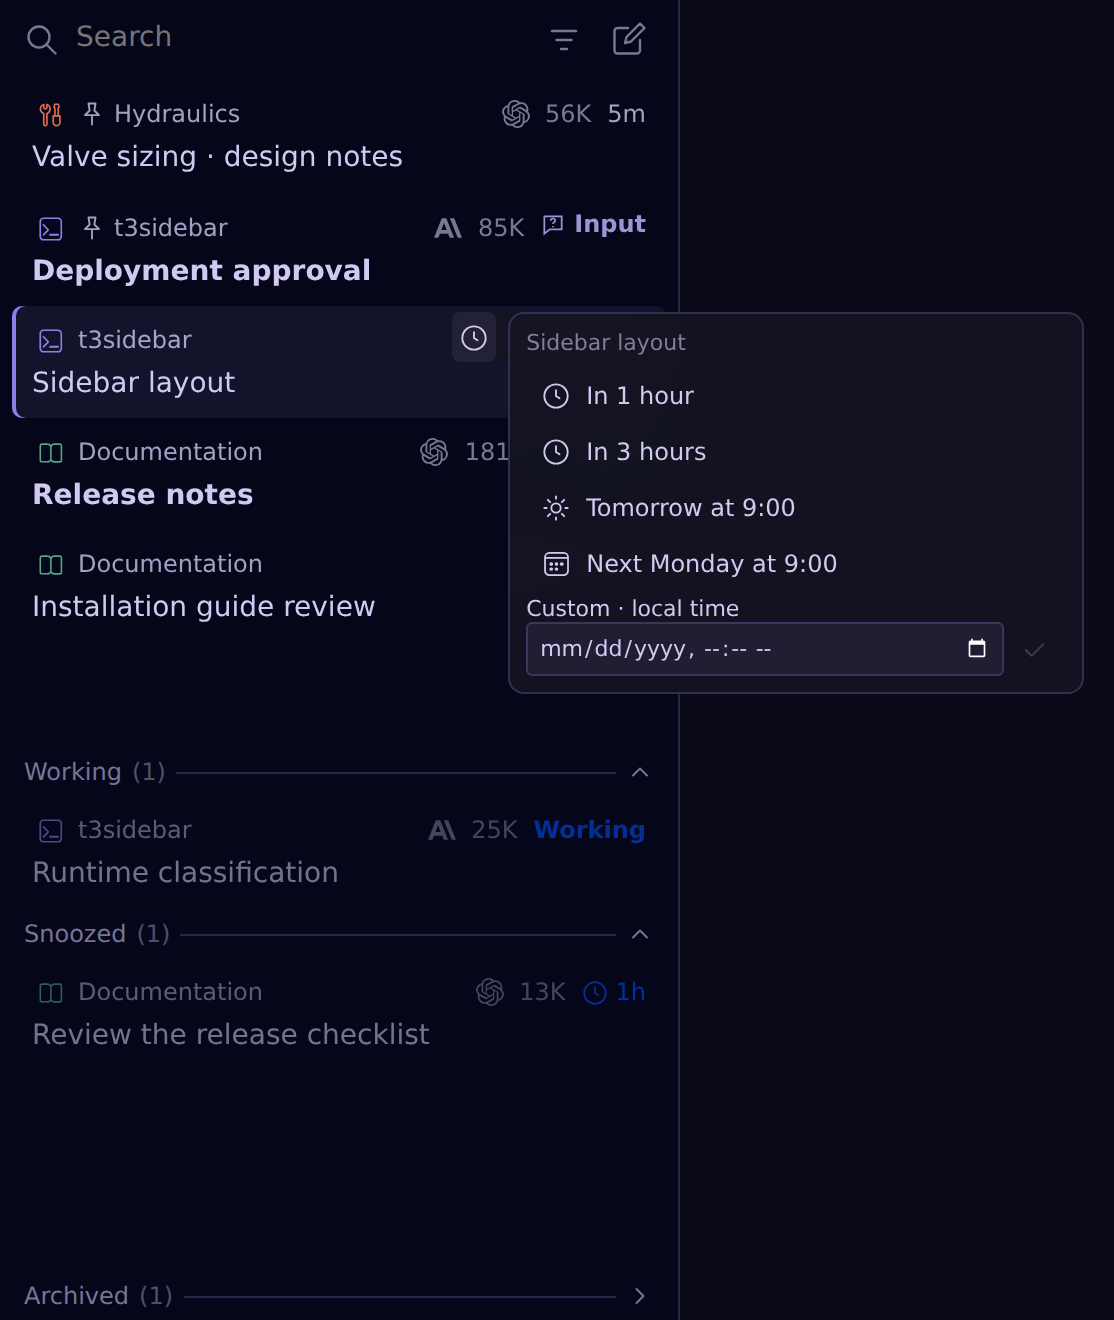
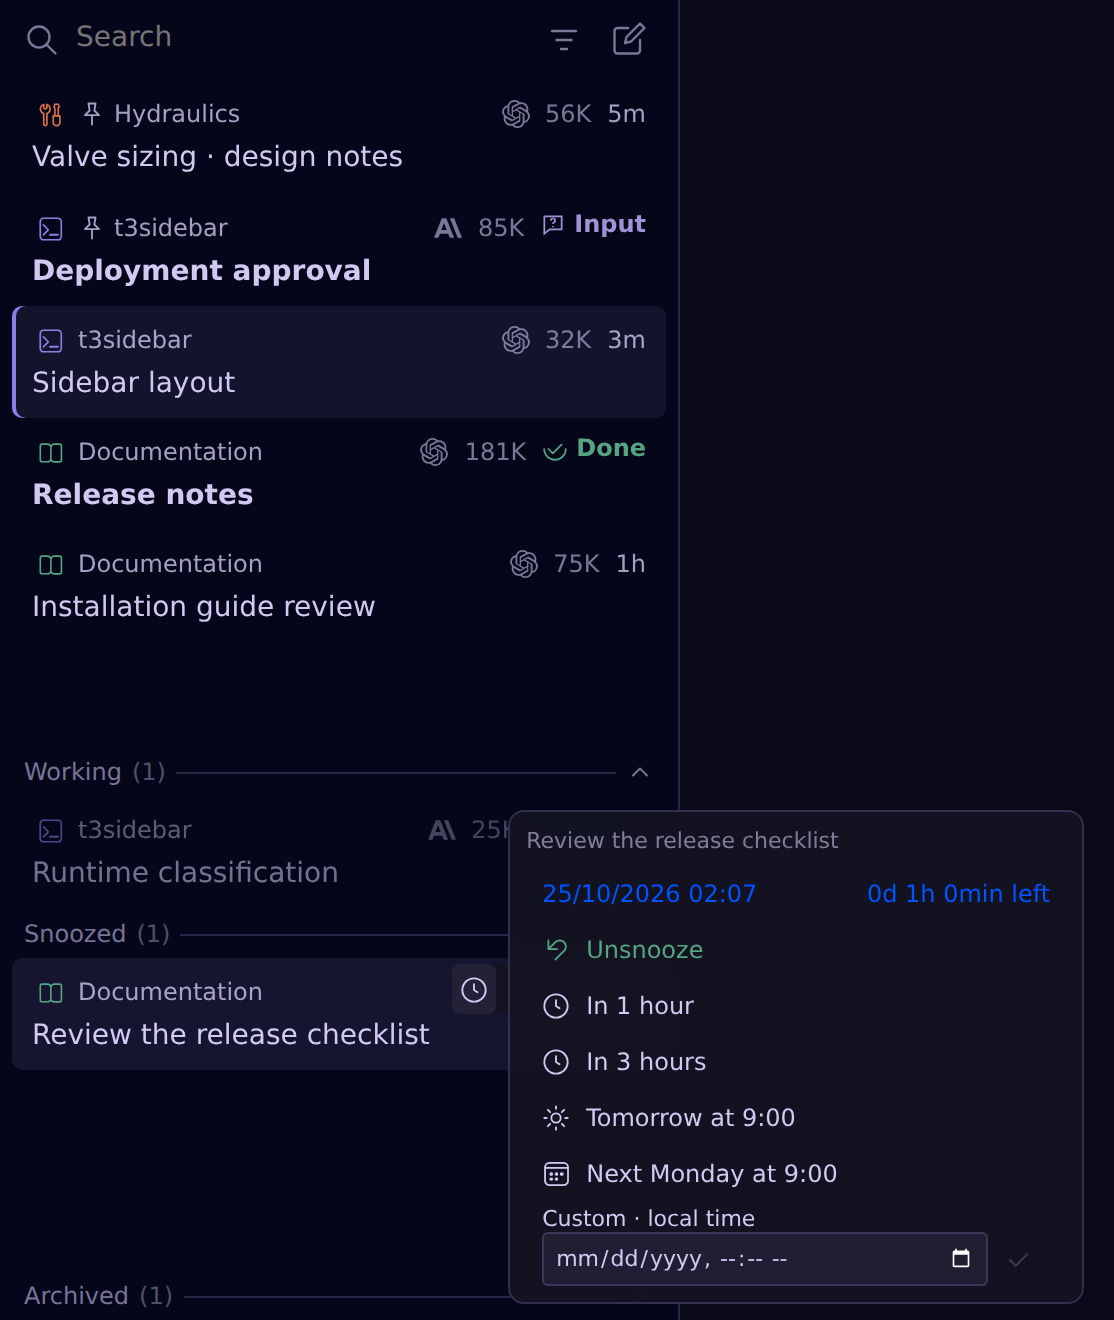
fix: simplify snoozed session menus and align timing details

diff --git a/desktop/plugin.js b/desktop/plugin.js
@@ -14,7 +14,8 @@ const ARCHIVE_TAIL_STALE_MS = 30000;
 const HISTORY_PAGE_GC_MS = 300000;
 const tokenFormatter = Intl.NumberFormat('en', { useGrouping: false, maximumFractionDigits: 0 });
 const millionTokenFormatter = Intl.NumberFormat('en', { useGrouping: false, minimumFractionDigits: 1, maximumFractionDigits: 1 });
-const shortDateTime = new Intl.DateTimeFormat(undefined, { dateStyle: 'short', timeStyle: 'short' });
+const shortDate = new Intl.DateTimeFormat(undefined, { dateStyle: 'short' });
+const shortTime = new Intl.DateTimeFormat(undefined, { timeStyle: 'short' });
 const SNOOZE_TIME_KEY = ['hermes-t3sidebar-preferences', 'snooze-time'];
 const validSnoozeTime = value => typeof value === 'string' && /^(?:[01]\d|2[0-3]):[0-5]\d$/.test(value);
 function readSnoozeTime(ctx) {
@@ -751,7 +752,7 @@ const CSS = `
 .sf-group{padding:6px 12px 2px;font-size:10px;color:var(--ui-text-quaternary)}
 .sf-menu{display:flex;flex-direction:column;gap:4px;padding:8px;min-width:200px;max-width:290px;color:var(--ui-text-primary)}.sf-menu button{justify-content:flex-start}.sf-menu-title{font-size:11px;color:var(--ui-text-tertiary);margin-bottom:4px;overflow:hidden;text-overflow:ellipsis;white-space:nowrap}.sf-menu label{font-size:11px}.sf-menu input{width:100%;background:var(--ui-bg-quaternary);color:var(--ui-text-primary);border:1px solid var(--ui-stroke-secondary);padding:5px}.sf-menu p{font-size:10px;color:var(--ui-text-tertiary);margin:4px 0}.sf-error{color:var(--ui-accent)}
 .sf-row .sf-project{gap:4px}.sf-row .sf-snooze-time{display:inline-flex;align-items:center;gap:4px;color:var(--ui-blue,#0053fd);font-weight:400}.sf-snooze-time svg{width:13px;height:13px;flex-shrink:0}.sf-menu button.sf-unsnooze{color:var(--ui-green,#1f8a65)}
-.sf-menu button.sf-snooze-info:disabled{color:var(--ui-blue,#0053fd);opacity:1;font-weight:400;cursor:default}
+.sf-menu button.sf-snooze-info:disabled{display:flex;gap:12px;width:100%;white-space:nowrap;color:var(--ui-blue,#0053fd);opacity:1;font-weight:400;cursor:default}.sf-snooze-remaining{margin-left:auto;text-align:right}.sf-menu .sf-custom-snooze{padding:0 8px}.sf-menu .sf-custom-snooze,.sf-menu .sf-snooze-info,.sf-menu .sf-snooze-action{padding-left:8px;padding-right:8px}
 .sf-project-choice{display:flex;align-items:center;gap:7px;min-width:0}.sf-project-choice[aria-expanded=true]{background:var(--chrome-action-hover,var(--ui-bg-quaternary));color:var(--ui-text-primary)}
 .sf-project-picker{box-sizing:border-box;width:min(440px,calc(100vw - 18px));min-width:0;max-width:none;max-height:min(720px,calc(100dvh - 24px),calc(var(--radix-popover-content-available-height,100dvh) - 2px));overflow:hidden}.sf-project-picker>strong,.sf-project-picker>input{flex-shrink:0}.sf-project-picker>input{box-sizing:border-box;min-width:0}.sf-menu.sf-project-picker>.sf-project-options{gap:0;overflow-y:auto;overscroll-behavior:contain;min-height:0}.sf-project-picker .sf-project-choice{box-sizing:border-box;flex-shrink:0;width:100%;height:24px;min-height:24px;padding:4px 8px;font-size:12px;line-height:16px;gap:8px;border:0}.sf-project-picker .sf-project-icon{width:14px;height:14px}.sf-project-details{display:flex;align-items:center;gap:12px;flex:1;min-width:0;text-align:left}.sf-project-details>.sf-project-name,.sf-project-path{display:block;overflow:hidden;text-overflow:ellipsis;white-space:nowrap;min-width:0}.sf-project-details>.sf-project-name{max-width:55%}.sf-project-path{flex:1;margin-left:auto;text-align:right;font-size:11px;font-weight:400;line-height:16px;color:var(--ui-text-tertiary)}
 .sf-project-group{display:flex;flex-direction:column;gap:0;flex-shrink:0}.sf-project-picker .sf-project-folder{padding-left:30px}.sf-project-folder .sf-project-path{text-align:left;margin-left:0}.sf-project-heading .sf-project-name{max-width:100%}.sf-project-heading[aria-disabled=true]{opacity:1;cursor:default}
@@ -964,16 +965,16 @@ function RowActions({ row, scope, controller, filterProject, deleteSession, muta
   };
   return h('div', { className: 'sf-menu' }, h('div', { className: 'sf-menu-title' }, sessionTitle(row)),
     snoozeOnly ? h('form', { onSubmit: custom },
-      row.meta.state === 'snoozed' ? h(sdk.Button, { type: 'button', variant: 'ghost', size: 'sm', className: 'sf-snooze-info', disabled: true }, snoozeDetail) : null,
-      row.meta.state === 'snoozed' ? h(sdk.Button, { type: 'button', variant: 'ghost', size: 'sm', className: 'sf-snooze-info', disabled: true }, shortDateTime.format(new Date(row.meta.wake_at * 1000))) : null,
-      row.meta.state === 'snoozed' ? h(MenuAction, { codicon: 'discard', className: 'sf-unsnooze', disabled: disabled || snoozeDisabled, onClick: () => run({ action: 'restore' }) }, 'Unsnooze') : null,
-      ...snoozePresets(Date.now(), presetTime).map(preset => h(MenuAction, { key: preset.label, name: preset.icon, codicon: preset.codicon, disabled: disabled || snoozeDisabled, onClick: () => run({ action: 'snooze', wake_at: preset.wake_at }) }, preset.label)),
-      h('label', null, 'Custom · local time', h('span', { className: 'sf-custom-time' },
+      row.meta.state === 'snoozed' ? h(sdk.Button, { type: 'button', variant: 'ghost', size: 'sm', className: 'sf-snooze-info', disabled: true },
+        h('span', { className: 'sf-snooze-date' }, `${shortDate.format(new Date(row.meta.wake_at * 1000))} ${shortTime.format(new Date(row.meta.wake_at * 1000))}`),
+        h('span', { className: 'sf-snooze-remaining' }, snoozeDetail)) : null,
+      row.meta.state === 'snoozed' ? h(MenuAction, { codicon: 'discard', className: 'sf-unsnooze sf-snooze-action', disabled: disabled || snoozeDisabled, onClick: () => run({ action: 'restore' }) }, 'Unsnooze') : null,
+      ...snoozePresets(Date.now(), presetTime).map(preset => h(MenuAction, { key: preset.label, name: preset.icon, codicon: preset.codicon, className: 'sf-snooze-action', disabled: disabled || snoozeDisabled, onClick: () => run({ action: 'snooze', wake_at: preset.wake_at }) }, preset.label)),
+      h('label', { className: 'sf-custom-snooze' }, 'Custom · local time', h('span', { className: 'sf-custom-time' },
         h('input', { type: 'datetime-local', value, disabled: disabled || snoozeDisabled, 'aria-label': 'Custom snooze date and time', onChange: event => { setValue(event.target.value); setError(''); } }),
         h(IconButton, { type: 'submit', label: 'Apply custom snooze', name: 'Check', glyph: '✓', disabled: disabled || snoozeDisabled || !value }))))
       : h('div', null,
         row.archived !== true ? action(row.meta.pinned ? 'Unpin' : 'Pin', 'Pin', { action: row.meta.pinned ? 'unpin' : 'pin' }) : null,
-        row.archived !== true && row.meta.state === 'snoozed' ? action('Restore to Ready', 'CornerDownLeft', { action: 'restore' }) : null,
         h(MenuAction, { name: 'Pencil', disabled: busy || !row.runtimeId, onClick: () => setRenaming(true) }, 'Rename'),
         !row.runtimeId ? h('p', null, 'Rename requires a live runtime. Open the thread and retry.') : null,
         renaming ? h('form', { onSubmit: event => { event.preventDefault(); void perform(() => controller.rename(scope, row, title)); } },

diff --git a/docs/behavior.md b/docs/behavior.md
@@ -11,7 +11,7 @@
 - Headerless Pinned cards above Ready, two-line session cards, search, project filtering and hover-only Snooze/Archive actions. Pinned sessions stay here while working, retaining blue Working status without dimming; Snoozed still wins over Pinned, while native archives and input/unknown-status safeguards keep their existing precedence. Pinned fits its cards without reserving blank space; large pinned lists remain height-capped and scroll independently. Category bodies scroll independently while secondary headers remain visible.
 - Working, Snoozed and Archived headings show a parenthesized session count, a divider and a right-aligned chevron. Fold preferences persist locally through Desktop restarts, separately for each source and profile. Searching temporarily reveals matching Working rows, but never automatically unfolds Snoozed or Archived; their matching counts remain available for explicit expansion.
 - Project glyphs have transparent backgrounds in both cards and the new-session picker. The picker closes through the normal popover dismissal without a Cancel button. Searches with no loaded matches show “No matching sessions”, never “All caught up”.
-- Reverse actions through ordinary controls: Archive/Unarchive, Pin/Unpin and Restore to Ready. No action creates an Undo toast or button; Delete retains its confirmation modal.
+- Reverse actions through ordinary controls: Archive/Unarchive, Pin/Unpin and Unsnooze in the Snooze menu. No action creates an Undo toast or button; Delete retains its confirmation modal.
 - Menu buttons stay highlighted until their popover closes. Snooze also keeps its hover controls visible and its anchor stable when the pointer leaves the card.
 - Provider icons appear only when concrete metadata identifies a supported logo. Missing, automatic or unrecognized providers have no placeholder icon or empty spacer; the logo appears when metadata arrives.
 - Search retains keyboard focus as filtering removes cards. Row-focus recovery only applies while the card actually owns focus; background list updates do not reclaim focus from search, menus or the composer.
@@ -19,8 +19,8 @@
 - Cards show green **Done** for a backend-recorded successful completion, or native backend unread when available. Completion markers persist in profile-scoped plugin SQLite even with Desktop closed; clients read the same state and acknowledge its exact generation when a thread is opened/read. No client-local completion tracker or native unread rewrite is used. See [backend completion markers](completion-markers.md).
 - Orange **Woke** after snooze expiry and purple **Input** for a question or approval retain priority over Done; Working remains blue and also outranks Done. Status labels have a leading icon and bold title. Project names, glyphs and ordinary ages have stronger contrast while provider/token metadata stays subdued.
 - Expanded Archives receives a larger share of list height. Categories animate open/closed without moving their headers into the scroll bodies; reduced-motion preferences disable these transitions.
-- Right-click offers Pin/Unpin, Restore when snoozed, Rename, Copy session ID, confirmed Delete, and a final **Project** submenu. Project contains Rename, Copy path, Filter for, the approved 48-color palette (24 hue-aligned bright/dark pairs in golden-ratio portrait swatches) and 64 native Codicons in eight categories. All selectable project glyphs use the chosen project color; action icons keep their ordinary styling. Right-click a project in the filter list (or use Shift+F10) to open the same menu without selecting that filter or changing workspace. Project edits update the native backend catalog and verify exact saved values; auto-discovered folders are adopted as native projects on their first edit, without changing the active workspace. Every action has a decorative leading icon; Delete's icon and text use the native red theme color, including hover/focus and disabled states. Session Rename is available only for a confirmed live runtime and verifies the saved title; stored-only threads explain the limitation. Archive and Snooze stay on their direct hover controls, and archived cards omit Snooze. Lists are always flat; project filtering does not group them.
-- Custom snooze uses the date/time field with Enter or its adjacent checkmark; there is no bottom “Snooze until chosen time” button.
+- Right-click offers Pin/Unpin, Rename, Copy session ID, confirmed Delete, and a final **Project** submenu. Project contains Rename, Copy path, Filter for, the approved 48-color palette (24 hue-aligned bright/dark pairs in golden-ratio portrait swatches) and 64 native Codicons in eight categories. All selectable project glyphs use the chosen project color; action icons keep their ordinary styling. Right-click a project in the filter list (or use Shift+F10) to open the same menu without selecting that filter or changing workspace. Project edits update the native backend catalog and verify exact saved values; auto-discovered folders are adopted as native projects on their first edit, without changing the active workspace. Every action has a decorative leading icon; Delete's icon and text use the native red theme color, including hover/focus and disabled states. Session Rename is available only for a confirmed live runtime and verifies the saved title; stored-only threads explain the limitation. Archive and Snooze stay on their direct hover controls, and archived cards omit Snooze. Lists are always flat; project filtering does not group them.
+- Custom snooze uses the date/time field with Enter or its adjacent checkmark; there is no bottom “Snooze until chosen time” button. The custom local-time label and input share the action icons' left edge.
 - Opening a thread marks it read but does not change its displayed conversation age or recency order. Stored conversation activity, not the runtime's resume/reattach clock, drives those values.
 - Token totals have whole-thousand resolution (`12K`, not `12.3K`) and one decimal for millions (`1.2M`). Archived cards never show Done, Woke, pin or snooze indicators/actions. Viewing their history leaves them archived; resumed agent activity restores their native compression lineage through the backend plugin hook. Authoritative running/input state leaves the Archived shelf immediately, even before the persisted flag refreshes.
 - **Move to project**, directly above **Project** in the session menu, re-homes a confirmed-idle stored conversation to a selected project folder through the native workspace-move operation. Folder choices include multi-folder projects. The companion verifies the exact persisted workspace before the card changes; moving never opens the session or sends a prompt.
@@ -43,7 +43,7 @@ Earlier versions used a plugin-only settlement shelf. Existing settlement metada
 - Older regular history and archives load on demand independently. Organized regular sessions are recovered outside the recent page automatically, including due snoozes. Search covers loaded rows and recovered organized sessions, not history that has not yet been loaded.
 - Native archived-and-hidden conversations can appear in Archived, but Unarchive deliberately preserves their separate hidden flag. They will not return to this ordinary session list unless their native visibility is changed separately.
 - Pins are hermes-t3sidebar metadata, not synchronized with Hermes’s native pin store. Drag/reorder, bulk selection and cross-profile aggregation are not implemented in this version.
-- Snooze is plugin-owned metadata and remains available while a stored session is working; it never stops or resumes execution. Snoozed cards show a blue snooze icon before the non-bold remaining duration, rounded to one whole unit (for example, 2d 16h becomes 3d), without a “left” suffix. Their menu starts with two disabled blue information rows: precise `Xd Xh Xmin left` and the wake date/time in the client's locale-short format. Green Unsnooze is the first enabled action. Native Archive still requires confirmed idle status, and input/unknown-runtime visibility takes precedence over snoozed placement.
+- Snooze is plugin-owned metadata and remains available while a stored session is working; it never stops or resumes execution. Snoozed cards show a blue snooze icon before the non-bold remaining duration, rounded to one whole unit (for example, 2d 16h becomes 3d), without a “left” suffix. Their menu starts with one disabled blue information row: the wake date/time on the left (client-local short date and time separated by a space, without a comma) and precise `Xd Xh Xmin left` aligned to the right. Green Unsnooze is the first enabled action and is not duplicated in the right-click menu. Native Archive still requires confirmed idle status, and input/unknown-runtime visibility takes precedence over snoozed placement.
 - Runtime Working/Waiting state comes from the gateway’s live session snapshot, not its connection status or a recent-activity heuristic. Unknown runtime status must not be presented as confirmed idle.
 - Activity-based unarchiving is a best-effort `pre_llm_call` hook, not a session-open side effect. If the installed native archive setter would also touch an independent fork, the hook refuses the overbroad write; it never restores another conversation to make a card look correct. Native archival has no atomic lineage compare-and-set, so concurrent external archival/lineage changes remain a core API limitation.
 - Done now uses shared plugin-owned backend completion markers, with native backend unread as an additional signal. This is not an exact projection of Desktop's private green-dot store and does not retroactively mark old idle history. The producer requires supported server lifecycle hooks; the inspected opt-in `codex_app_server` runtime bypasses its end hook and is not covered. The `openai-codex` provider alone does not imply that runtime. No core patch, native unread rewrite or timestamp-based completion guess is used.

diff --git a/README.md b/README.md
@@ -24,7 +24,7 @@ Search sessions or filter by project without changing your workspace.
 
 Snooze for an hour, three hours, tomorrow, next Monday or a custom local date and time. Snoozing never stops or resumes an agent.
 
-![Snooze menu with one-hour, three-hour, tomorrow, next-Monday and custom date options](docs/images/snooze.png)
+![Snoozed session menu with wake date/time and right-aligned time left on one line, Unsnooze, presets and an aligned custom date input](docs/images/snooze.png)
 
 ### Organize sessions and projects
 
